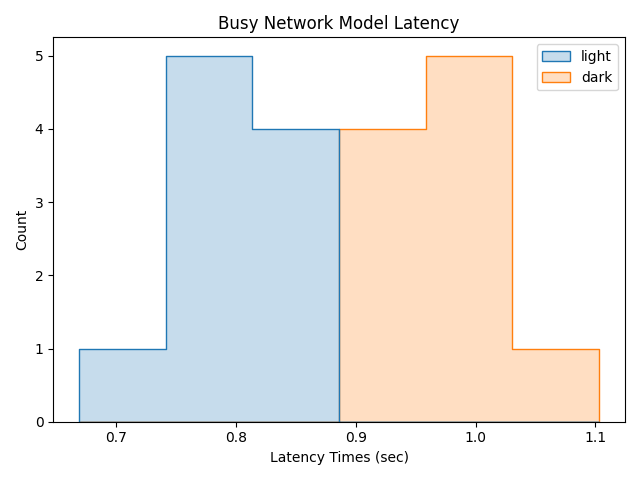
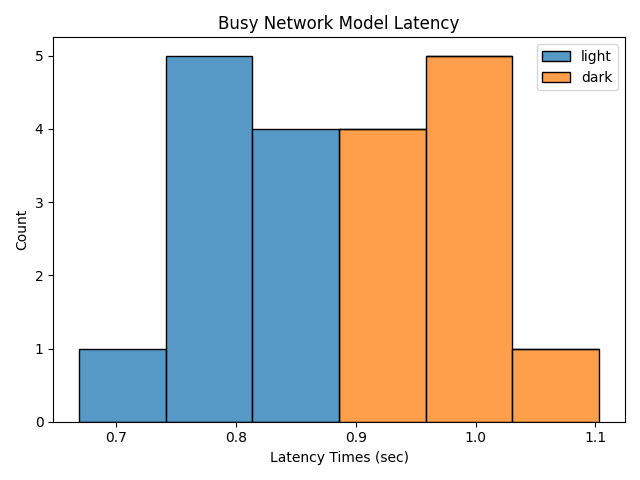
updated graphs and added edge v cloud comp

diff --git a/comparison.py b/comparison.py
@@ -4,57 +4,56 @@ import numpy as np
 import seaborn as sns
 import matplotlib.pyplot as plt
 
-file_model_Mb = {
-    'Default' : 148.00352,
-    'Fish 100k' : 45.472128,
-    'Fish 200k' : 64.0528,
-    'Fish 400k' : 148.00352,
-    'Fish 2k' : 24.807808,
-    'Fish 20k' : 29.271456,
-    'Busy Network' : 0,
-    'Cloud 100k' : 45.472128,
-    'Cloud 200k' : 64.0528,
-    'Cloud 400k' : 148.00352,
-    'Cloud 2k' : 24.807808,
-    'Cloud 20k' : 29.271456, 
-}
-
 def comparison_calculations(dataset, title):
-    for context in ['edge', 'cloud']:
-        mean = np.mean(dataset[context])
-        std = np.std(dataset[context])
-        with open(f'calculations/{title}_{context}.txt', 'w') as f:
-            f.write(f'mean: {mean}\n')
-            f.write(f'std: {std}\n')
-            f.write(f'throughput: {file_model_Mb[title] / mean}\n')
+    latency = dataset[['Edge Latency', 'Cloud Latency']]
+    throughput = dataset[['Edge Throughput', 'Cloud Throughput']]
 
-    ax = sns.histplot(data=dataset, element='step')
-    graph_title = f'{title} Model Latency'
-    ax.set(xlabel='Latency Times', title=graph_title)
+    ax = sns.histplot(data=latency, multiple='stack')
+    graph_title = f'{title} Average Latency Comparison'
+    ax.set(xlabel='Latency Times (sec)', title=graph_title)
     plt.tight_layout()
-    plt.savefig(f'graphs/{graph_title}.png')
+    plt.savefig(f'graphs/{graph_title}_latency.png')
     plt.clf()
 
+    ax = sns.histplot(data=throughput, multiple='stack')
+    graph_title = f'{title} Average Throughput Comparison'
+    ax.set(xlabel='Throughput (Mbps)', title=graph_title)
+    plt.tight_layout()
+    plt.savefig(f'graphs/{graph_title}_throughput.png')
+    plt.clf()    
+
 for type in ['Cloud ', 'Fish ']:
-    light = []
-    dark = []
+    light_data = [[], [], []]
+    dark_data = [[], [], []]
+
     for file in glob.glob(f'calculations/{type}*'):
         with open(file, 'r') as f:
             lines = f.readlines()
-            for line in lines:
-                values = line.split(':')
-                if 'light' in values[0]:
-                    light.append(float(values[3]))
-                else:
-                    dark.append(float(values[3]))
+            if 'light' in file:
+                light_data[0].append(float(lines[0].split(':')[1]))
+                light_data[1].append(float(lines[1].split(':')[1]))
+                light_data[2].append(float(lines[2].split(':')[1]))
+            else:
+                dark_data[0].append(float(lines[0].split(':')[1]))
+                dark_data[1].append(float(lines[1].split(':')[1]))
+                dark_data[2].append(float(lines[2].split(':')[1]))
     
     if type == 'Cloud ':
-        cloud_light_np = np.array(light)
-        cloud_dark_np = np.array(dark)
+        cloud_light = light_data
+        cloud_dark = dark_data
     else:
-        edge_light_np = np.array(light)
-        edge_dark_np = np.array(dark)
+        edge_light = light_data
+        edge_dark = dark_data
 
-light_comp = pd.DataFrame(np.hstack((edge_light_np[:,None], cloud_light_np[:,None])), columns=['edge', 'cloud'])
-dark_comp = pd.DataFrame(np.hstack((edge_dark_np[:,None], cloud_dark_np[:,None])), columns=['edge', 'cloud'])
-comparison_calculations(light_comp, 'Light Comparison')
+light_comp = edge_light
+light_comp.extend(cloud_light)
+light_comp_df = pd.DataFrame(light_comp).T
+light_comp_df = light_comp_df.set_axis(['Edge Latency', 'edge_std', 'Edge Throughput', 'Cloud Latency', 'cloud_std', 'Cloud Throughput'], axis=1, inplace=False)
+
+dark_comp = edge_dark
+dark_comp.extend(cloud_dark)
+dark_comp_df = pd.DataFrame(dark_comp).T
+dark_comp_df = dark_comp_df.set_axis(['Edge Latency', 'edge_std', 'Edge Throughput', 'Cloud Latency', 'cloud_std', 'Cloud Throughput'], axis=1, inplace=False)
+
+comparison_calculations(light_comp_df, 'Light')
+comparison_calculations(dark_comp_df, 'Dark')

diff --git a/latency.py b/latency.py
@@ -28,7 +28,7 @@ def latency_calculations(dataset, title):
             f.write(f'std: {std}\n')
             f.write(f'throughput: {file_model_Mb[title] / mean}\n')
 
-    ax = sns.histplot(data=dataset, element='step')
+    ax = sns.histplot(data=dataset, multiple='stack')
     graph_title = f'{title} Model Latency'
     ax.set(xlabel='Latency Times (sec)', ylabel='Count', title=graph_title)
     plt.tight_layout()
